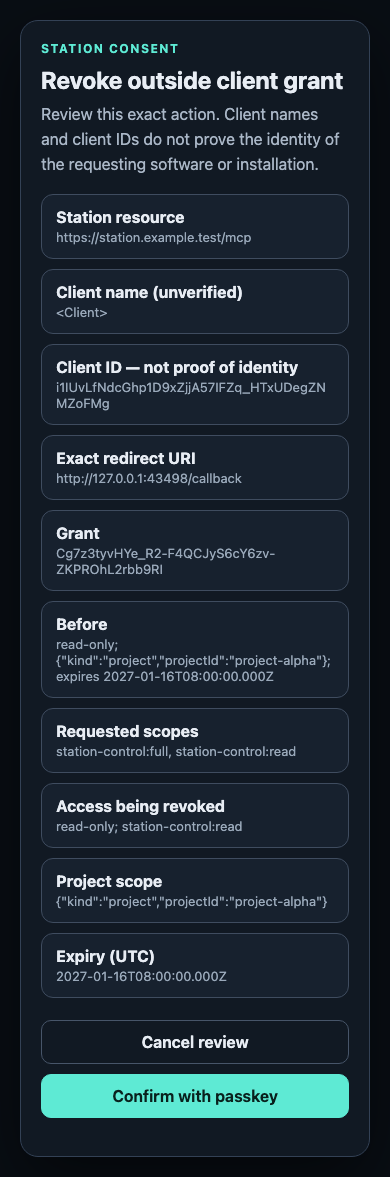
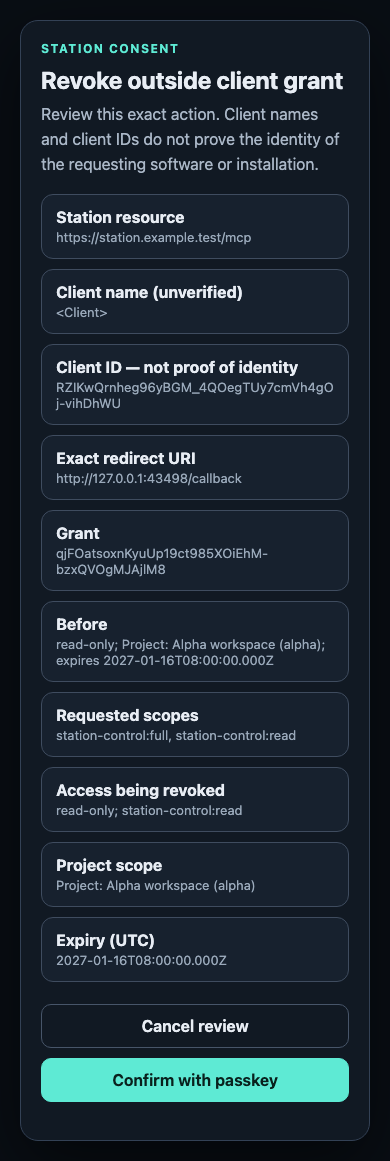
docs(mcp): retain round 1 review and fault evidence (#4115)

Changed region(s): [[0.0923, 0.062, 0.8923, 0.9612], [0.3692, 0.031, 0.4, 0.062], [0.0923, 0.031, 0.1231, 0.062]]

diff --git a/docs/design/outside-agent-mcp-r2b-evidence.md b/docs/design/outside-agent-mcp-r2b-evidence.md
@@ -142,3 +142,70 @@ transport cancellation, physical/synced/hybrid passkeys, real DNS/TLS, hosted,
 native, release and production qualification. The compiled refusal remains.
 There is no unresolved R2b decision: denial versus cancellation follows S4,
 and all access-change semantics remain those of the shared R2a service.
+
+## Round 1 review fixes (2026-10-24)
+
+**EXECUTED:** Source `cc7823687711769bc4c2efbd7f77409d6ac090ef` passed
+401 checks across the five focused files listed above plus
+`src-server/runtime/consent/__tests__/consent-listener.test.ts`. The outside
+consent route suite now owns 65 checks. It exercises current Project display
+names, rename without changing the bound Project ID, global scope, before/after
+Project changes, separate capitalized remote/intent warnings, the prominent
+comparison code and instruction, and reload of a decided approval. The compiled
+consent guard's response body and security headers match an authenticated unknown
+ID; neither route renders a nonce or changes the audit/domain state.
+
+**REASONED:** The removed `expectedRedirectPolicyRevision` target field was
+redundant. `#requestFingerprint` hashes the full request, registration digest and
+current redirect-policy revision; `#prepare` validates the action's expected
+request fingerprint before deriving a review or committing. **EXECUTED:** Both
+approval and denial refuse after a redirect-policy ABA even when the origin list
+returns to identical bytes. The canonical consent fingerprint continues to bind
+the stable Project ID; display names are resolved from live authority when the
+review description is created.
+
+**REASONED:** The design route table now says the two per-ID GET routes require
+an operator session, and transaction status requires its initiating session.
+The inventory omits comparison codes for sessions, while passkey review
+intentionally displays the code for the same human to compare across devices.
+No host read route was added.
+
+### Crafted-name fault proof
+
+**EXECUTED:** At the clean source commit above, the outside consent route suite
+passed 65/65. Restoring the old `safeLabel` implementation (only removing Cc/Cf)
+made exactly five crafted-name cases fail, with 60 checks still passing and exit
+1. These cover whitespace, Hangul fillers including U+3164, zero-width/default
+ignorable and Braille blank characters, U+2028/U+2029-only names, and separators
+inside a spoofed name. Failures reported the unsafe rendered client label at the
+owning consent route. There was no import, timeout or prerequisite failure.
+
+**EXECUTED:** Before restoration, the source still matched the injected bytes.
+Restoration reproduced both the saved original and `git show HEAD:<path>` bytes;
+the checkout was clean before recapture. The restored suite passed 65/65, exit 0.
+The restored management-service SHA-256 is
[1 lines of base64/hex data omitted]
+No injected fault was committed.
+
+### Recaptured review pages
+
+**EXECUTED:** All nine prior outside review captures were recaptured from the
+committed source above, plus a [loopback approval](../learn/media/outside-agent-r2b-approve-loopback.png)
+whose invisible-only name renders as `(unnamed)`. Each of the ten images was
+opened and visually inspected, including remote approval at 390px and 1280px,
+loopback approval, denial, change, revocation and all four allowlist actions.
+All 390px pages measured `scrollWidth = innerWidth = 390`. The four allowlist
+images retained identical bytes. Comparison instructions, warning separation,
+Project names, escaping, readable wrapping and 44px action controls were checked.
+
+**EXECUTED:** A private snapshot server on loopback port 43491 served the actual
+registrar's HTML without editing it. The collaborative preview first returned
+`Preview automation navigate timed out after 15000ms.`; retrying the same step
+failed with a transport send error to the local MCP endpoint. Playwright then
+captured the retained images. These are rendering receipts using private stores
+and synthetic clients, not a browser assertion or real OAuth sign-in. The
+compiled release refusal and all remaining qualification limits above remain.
+
+**EXECUTED:** Foreground `content:excluded-names`, `typecheck:server-tests`,
+`typecheck:ui` and `typecheck:connect` passed. The reported main-branch
+`runtime-http` file-preview defect was outside this fix and was not changed.

diff --git a/docs/design/outside-agent-mcp.md b/docs/design/outside-agent-mcp.md
@@ -1203,7 +1203,7 @@ real-client/browser execution and hosted/release qualification.
 | Access dispatch | Compare the exact 23/36 tool sets. Enumerate every other registered tool and directly call it by name under both grants. Spy on real domain effects and nested calls; a denied operation must not execute. Include bounded-write, shared command leaves and unknown future registrations. |
 | Work discovery | Same principal with two Projects plus global, another principal, native indexed and file-backed transcripts. Search/list/read/digest agree; no out-of-scope snippets, counts, paths or cursors. Each of the 23 reads has a named negative test at its real caller: foreign-Project conversations/Sessions selected by ID appear absent, including same-owner targets. Exercise supported target/Project selectors and lineage; for catalog reads with no conversation/Session selector, refuse unsupported foreign-ID inputs and prove their sanitized metadata cannot expose that target. No helper-only or aggregate substitute for per-tool evidence. Deleted/reused slugs and unknown outside callers fail closed; partial and unavailable sources stay explicit. |
 | Full and descendants | An allowed sandboxed in-scope dispatch performs its intended write. Out-of-scope/host/remote/trust-all/approval requests fail. A Station-started child attempts escalation and fails under the inherited ceiling. Provider missing enforcement refuses before launch. |
-| Token/storage lifecycle | No plaintext token/code/ticket in database or logs; projections exclude them except H's displayed comparison code. Concurrent reuse, predecessor reuse and older-token replay atomically revoke the only family AND grant (`refresh_replay`), access and streams; seven-day idle expiry expires family AND grant (`idle`). Prove versions/audit, freed per-client capacity and terminal Connections/review status under the same lock, including five repeated lost-response/replay/re-login cycles using Claude's saved client ID, and idle expiry without a replay. Both real CLIs surface replayed-refresh `invalid_grant` as a clean re-login prompt requiring fresh H/P approval. Prove no encrypted envelope/recovery key exists and no short-lived refresh issuance occurs in the final five minutes. Store unavailable/corrupt means no grant use. |
+| Token/storage lifecycle | No plaintext token/code/ticket in database or logs; projections exclude authorization secrets; only H inventory and the initiating P review display the non-secret comparison code. Concurrent reuse, predecessor reuse and older-token replay atomically revoke the only family AND grant (`refresh_replay`), access and streams; seven-day idle expiry expires family AND grant (`idle`). Prove versions/audit, freed per-client capacity and terminal Connections/review status under the same lock, including five repeated lost-response/replay/re-login cycles using Claude's saved client ID, and idle expiry without a replay. Both real CLIs surface replayed-refresh `invalid_grant` as a clean re-login prompt requiring fresh H/P approval. Prove no encrypted envelope/recovery key exists and no short-lived refresh issuance occurs in the final five minutes. Store unavailable/corrupt means no grant use. |
 | Immediate revoke | Hold one live stream, queued mutation, paused search and descendant call; commit revoke through H and separately P. Release each paused action and prove no later effect/content or session resume; pre-revoke committed effect remains identifiable. Repeat for downgrade, expiry and authority loss. |
 | Crash/restart | Crash around grant/outbox commit, code consume and refresh rotation; reconcile once by decision ID, never mint a duplicate grant or refresh branch; unknown response outcomes require login, never response recovery. Unredeemed approvals leave old grants active; successful code exchange atomically activates/supersedes once. Restart preserves active token expiry and revoked/replay state; pending requests require fresh flow. |
 | Existing surfaces | Existing internal child initializes/calls `/mcp/station-control`; its loopback/token behavior stays intact. Exercise engine OAuth proxy negotiation/sign-in regression from #4094/#4108. Cross-present each token at outside/internal/proxy/general API/consent routes and prove refusal. |
